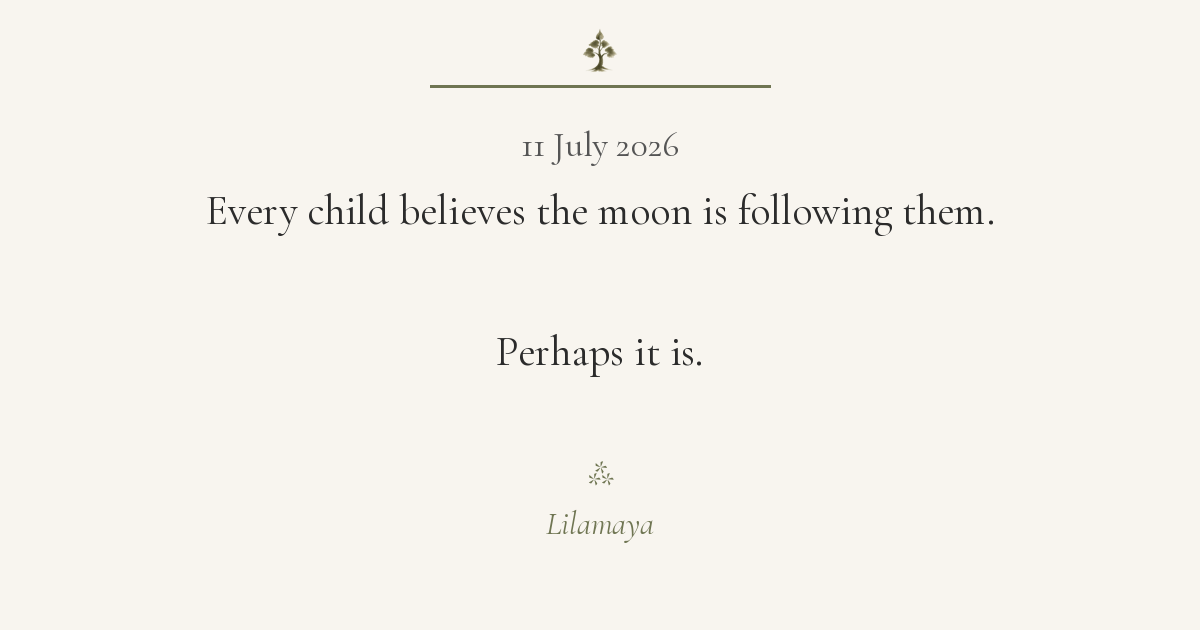
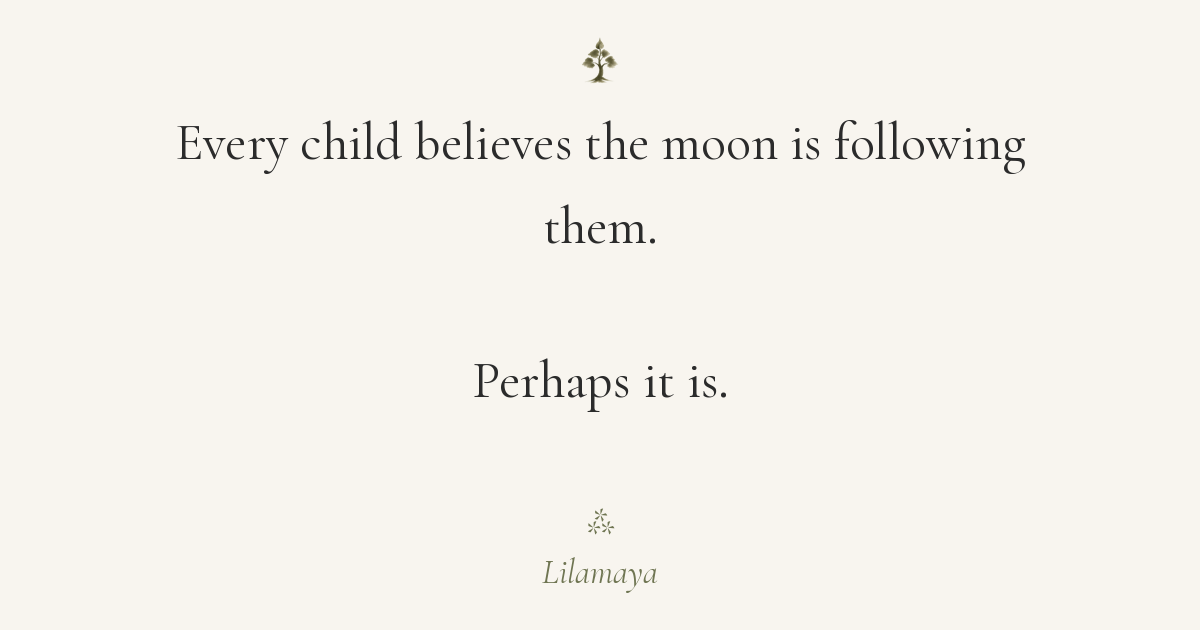
Fragments Card Change

diff --git a/public/about/index.html b/public/about/index.html
@@ -1,7 +1,7 @@
 <!DOCTYPE html>
 <html lang="en">
 
-<head><script src="/livereload.js?mindelay=10&amp;v=2&amp;port=42231&amp;path=livereload" data-no-instant defer></script>
+<head><script src="/livereload.js?mindelay=10&amp;v=2&amp;port=1313&amp;path=livereload" data-no-instant defer></script>
 
     <meta charset="utf-8">
 
@@ -30,7 +30,7 @@
     <meta property="og:type"
           content="website">
     <meta property="og:url"
-          content="http://localhost:42231/about">
+          content="http://localhost:1313/about">
     <meta property="og:site_name"
           content="The Lilamaya">
 
@@ -41,7 +41,7 @@
     
 
     <meta property="og:image"
-          content="http://localhost:42231/images/og-default.jpg">
+          content="http://localhost:1313/images/og-default.jpg">
 
     
 
@@ -56,12 +56,12 @@
     <meta name="twitter:description"
           content="A quiet literary home of essays on memory, childhood, fatherhood, nature, books, gardens, silence, and the extraordinary hidden within ordinary life.">
     <meta name="twitter:image"
-          content="http://localhost:42231/images/og-default.jpg">
+          content="http://localhost:1313/images/og-default.jpg">
 
     <meta name="theme-color" content="#F8F5EF">
 
     <link rel="canonical"
-          href="http://localhost:42231/about">
+          href="http://localhost:1313/about">
 
     
     <link rel="stylesheet"
@@ -196,7 +196,7 @@ Most of our lives are spent waiting for remarkable moments, while quietly overlo
 
     <div class="share-links">
 
-        <a href="https://twitter.com/intent/tweet?text=About&url=http%3A%2F%2Flocalhost%3A42231%2Fabout%2F"
+        <a href="https://twitter.com/intent/tweet?text=About&url=http%3A%2F%2Flocalhost%3A1313%2Fabout%2F"
            target="_blank"
            rel="noopener"
            aria-label="Share on X">
@@ -216,7 +216,7 @@ Most of our lives are spent waiting for remarkable moments, while quietly overlo
 
         </a>
 
-        <a href="https://www.facebook.com/sharer/sharer.php?u=http%3A%2F%2Flocalhost%3A42231%2Fabout%2F"
+        <a href="https://www.facebook.com/sharer/sharer.php?u=http%3A%2F%2Flocalhost%3A1313%2Fabout%2F"
            target="_blank"
            rel="noopener"
            aria-label="Share on Facebook">
@@ -227,7 +227,7 @@ Most of our lives are spent waiting for remarkable moments, while quietly overlo
 
         </a>
 
-        <a href="https://www.linkedin.com/sharing/share-offsite/?url=http%3A%2F%2Flocalhost%3A42231%2Fabout%2F"
+        <a href="https://www.linkedin.com/sharing/share-offsite/?url=http%3A%2F%2Flocalhost%3A1313%2Fabout%2F"
            target="_blank"
            rel="noopener"
            aria-label="Share on LinkedIn">
@@ -239,7 +239,7 @@ Most of our lives are spent waiting for remarkable moments, while quietly overlo
 
         </a>
 
-        <a href="mailto:?subject=About&body=http%3a%2f%2flocalhost%3a42231%2fabout%2f"
+        <a href="mailto:?subject=About&body=http%3a%2f%2flocalhost%3a1313%2fabout%2f"
            aria-label="Share by Email">
 
             <svg xmlns="http://www.w3.org/2000/svg" width="24" height="24" viewBox="0 0 24 24" fill="none" stroke="currentColor" stroke-width="2" stroke-linecap="round" stroke-linejoin="round" class="lucide lucide-mail-icon lucide-mail"><path d="m22 7-8.991 5.727a2 2 0 0 1-2.009 0L2 7"/><rect x="2" y="4" width="20" height="16" rx="2"/></svg>
@@ -249,7 +249,7 @@ Most of our lives are spent waiting for remarkable moments, while quietly overlo
         </a>
 
         <button id="copy-link"
-                data-url="http://localhost:42231/about/"
+                data-url="http://localhost:1313/about/"
                 aria-label="Copy link">
 
             <span class="copy-icon">

diff --git a/public/index.html b/public/index.html
@@ -2,7 +2,7 @@
 <html lang="en">
 
 <head>
-	<meta name="generator" content="Hugo 0.123.7"><script src="/livereload.js?mindelay=10&amp;v=2&amp;port=42231&amp;path=livereload" data-no-instant defer></script>
+	<meta name="generator" content="Hugo 0.123.7"><script src="/livereload.js?mindelay=10&amp;v=2&amp;port=1313&amp;path=livereload" data-no-instant defer></script>
 
     <meta charset="utf-8">
 
@@ -31,7 +31,7 @@
     <meta property="og:type"
           content="website">
     <meta property="og:url"
-          content="http://localhost:42231">
+          content="http://localhost:1313">
     <meta property="og:site_name"
           content="The Lilamaya">
 
@@ -42,7 +42,7 @@
     
 
     <meta property="og:image"
-          content="http://localhost:42231/images/og-default.jpg">
+          content="http://localhost:1313/images/og-default.jpg">
 
     
 
@@ -57,12 +57,12 @@
     <meta name="twitter:description"
           content="A quiet literary home of essays on memory, childhood, fatherhood, nature, books, gardens, silence, and the extraordinary hidden within ordinary life.">
     <meta name="twitter:image"
-          content="http://localhost:42231/images/og-default.jpg">
+          content="http://localhost:1313/images/og-default.jpg">
 
     <meta name="theme-color" content="#F8F5EF">
 
     <link rel="canonical"
-          href="http://localhost:42231">
+          href="http://localhost:1313">
 
     
     <link rel="stylesheet"